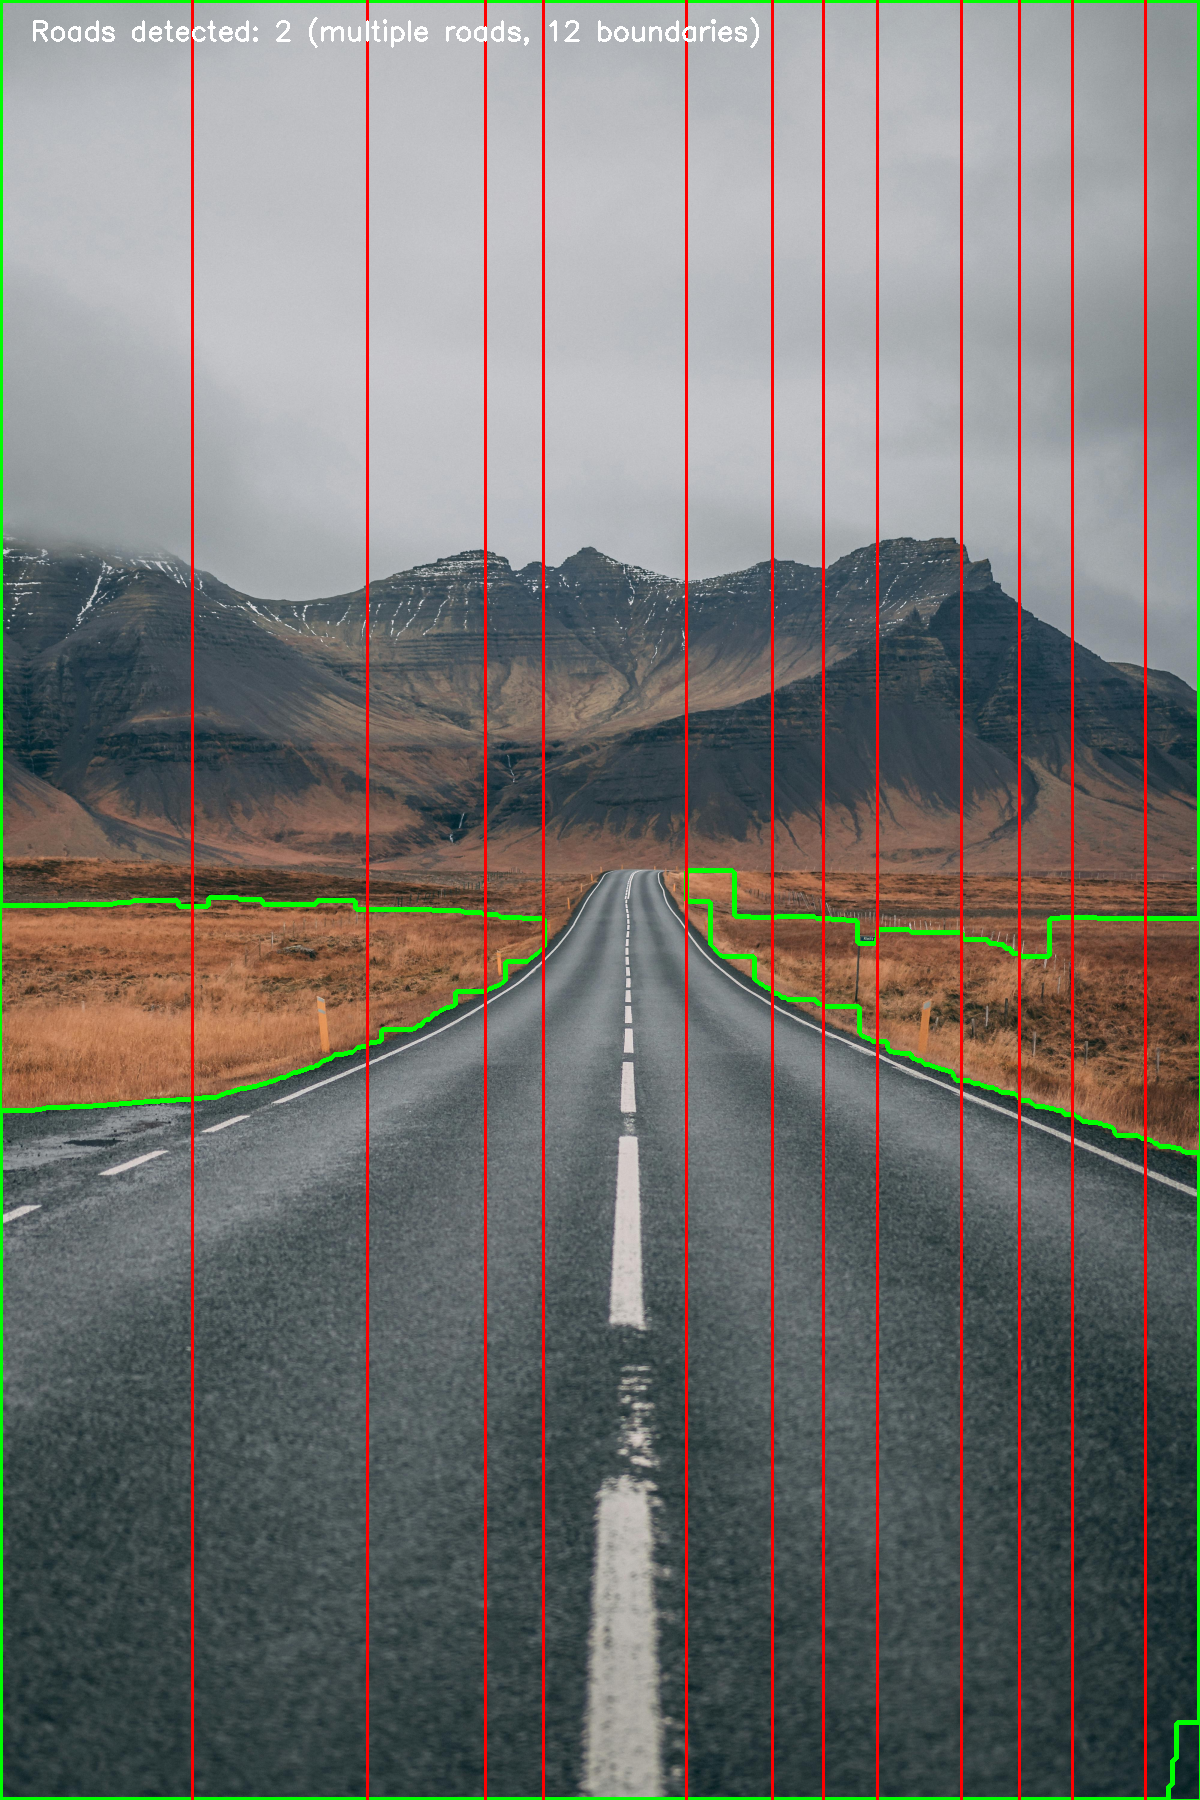
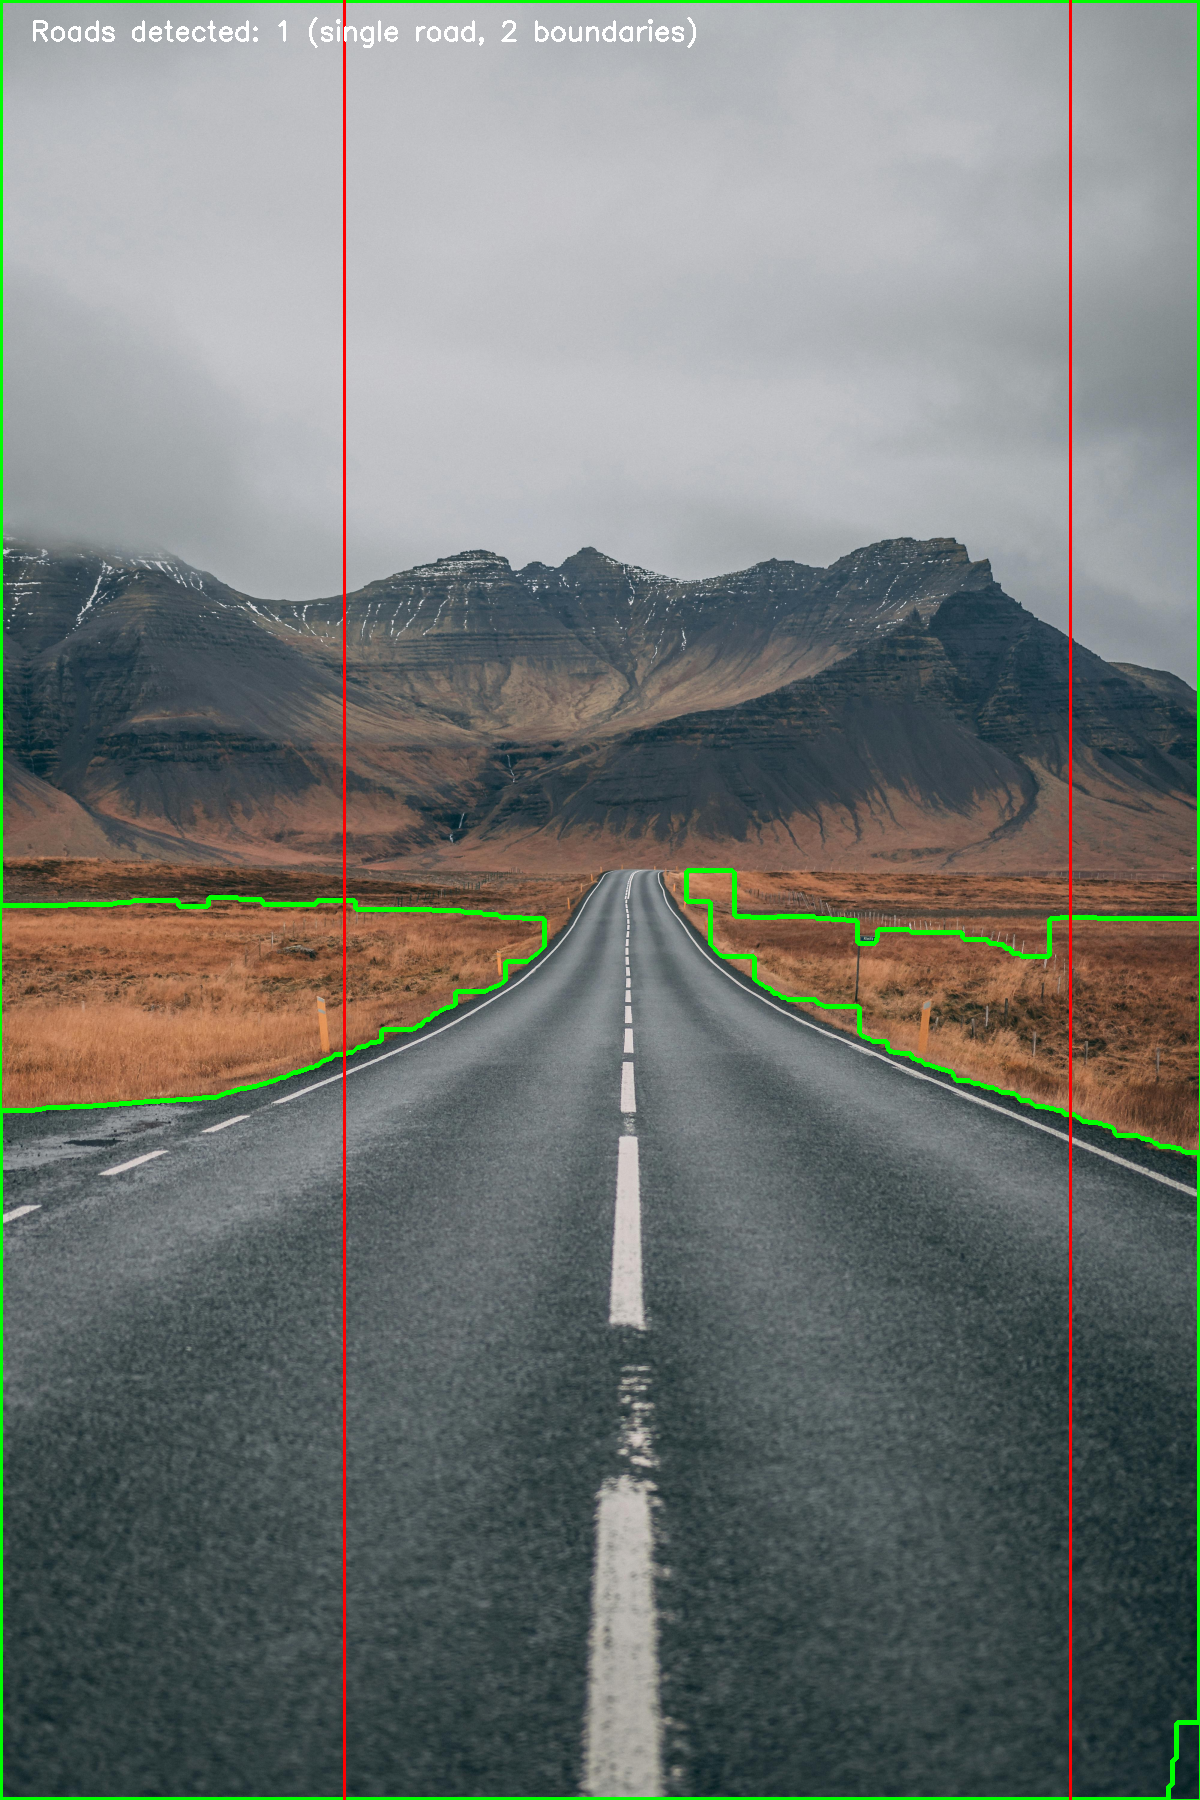
finally everything works

Changed region(s): [[0.2775, 0.0, 0.6475, 1.0]]

diff --git a/problem 1 class 4.py b/problem 1 class 4.py
@@ -87,6 +87,38 @@ def detect_boundary_lines(mask):
     return edges, merged
 
 
+def detect_center_divider(image, road_mask):
+    hsv = cv2.cvtColor(image, cv2.COLOR_BGR2HSV)
+    white = cv2.inRange(hsv, np.array([0, 0, 180]), np.array([180, 40, 255]))
+    yellow = cv2.inRange(hsv, np.array([10, 100, 100]), np.array([35, 255, 255]))
+    line_mask = cv2.bitwise_or(white, yellow)
+
+    edges = cv2.Canny(line_mask, 50, 150)
+    lines = cv2.HoughLinesP(edges, rho=1, theta=np.pi / 180, threshold=30, minLineLength=30, maxLineGap=20)
+    if lines is None:
+        return False
+
+    width = image.shape[1]
+    center_x = width / 2
+    for line in lines:
+        x1, y1, x2, y2 = line[0]
+        dx = x2 - x1
+        dy = y2 - y1
+        if abs(dx) < 10 and abs(dy) < 10:
+            continue
+        slope = dy / dx if dx != 0 else np.inf
+        
+        # More strict: line must be very vertical (|slope| > 1) to be a divider
+        if slope is not np.inf and abs(slope) < 1.0:
+            continue
+            
+        mid_x = (x1 + x2) / 2
+        if abs(mid_x - center_x) < width * 0.18:
+            return True
+
+    return False
+
+
 def draw_detection(image, road_contours, boundaries):
     output = image.copy()
     for contour, _, x, y, w, h in road_contours:
@@ -102,11 +134,9 @@ def draw_detection(image, road_contours, boundaries):
 
 
 def estimate_road_count(road_contours, boundary_count):
-    if len(road_contours) > 1:
-        return len(road_contours)
-    if boundary_count >= 4:
-        return 2
     if boundary_count >= 2:
+        return boundary_count // 2
+    if road_contours:
         return 1
     return 0
 
@@ -183,10 +213,17 @@ def main():
     road_mask = create_road_mask(image)
     road_contours = find_road_contours(road_mask, image_area)
     edges, boundaries = detect_boundary_lines(road_mask)
+    divider_found = detect_center_divider(image, road_mask)
+
+    boundary_count = len(boundaries)
+    # Only trust divider detection if we already detected 2+ separate road contours
+    if divider_found and len(road_contours) >= 2:
+        boundary_count = 4
+
     result_image = draw_detection(image, road_contours, boundaries)
 
-    road_count = estimate_road_count(road_contours, len(boundaries))
-    message = format_result(road_count, len(boundaries))
+    road_count = estimate_road_count(road_contours, boundary_count)
+    message = format_result(road_count, boundary_count)
     print(message)
 
     cv2.putText(result_image, message, (30, 40), cv2.FONT_HERSHEY_SIMPLEX, 0.9, (255, 255, 255), 2)